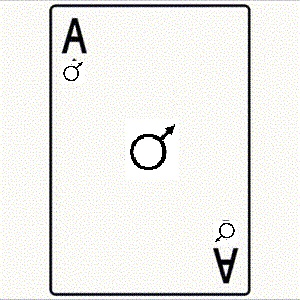
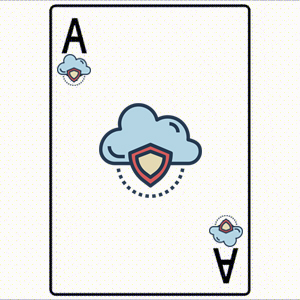
Replaced mars and resized cards

diff --git a/Memory/DockingStationManager.cs b/Memory/DockingStationManager.cs
@@ -15,8 +15,8 @@ namespace Memory
         //public static readonly int dockingOffset = (DockingStation.width * DockingStation.height * 20) / 100;
 
         // Responsive
-        private static readonly float widthPercent = 11.7f;
-        private static readonly float heightPercent = 19.9f;
+        private static readonly float widthPercent = 12.7f;
+        private static readonly float heightPercent = 20.9f;
         private static readonly float offsetPercent = 10f;
         private static readonly float dockingStationOffsetPercent = 1.8f;
 

diff --git a/Memory/SequenceGameController.cs b/Memory/SequenceGameController.cs
@@ -51,7 +51,7 @@ namespace Memory
 
             shapes = new string[] { "trinity_knot", "pi", "spade", "heart",
                                     "X", "tree", "arrow", "diamond", "mars",
-                                    "I", "IRed", "V", "moon", "star", "floppy",
+                                    "I", "IRed", "V", "moon", "git", "star", "floppy",
                                     "triangle","venera", "yin_yang", "delta"};
 
             // "trinity_knot", "pi", "yin_yang", "delta", "tree", "floppy"

diff --git a/Memory/PictureBoxManager.cs b/Memory/PictureBoxManager.cs
@@ -17,8 +17,8 @@ namespace Memory
 
 
         // Responsive pbs.
-        private static readonly float widthPercent = 11.7f;
-        private static readonly float heightPercent = 19.9f;
+        private static readonly float widthPercent = 12.7f;
+        private static readonly float heightPercent = 20.9f;
         private static readonly float offsetPercent = 30; // Relative to PbWidth
 
         public int pictureBoxWidth { get { return (int)Math.Ceiling((Parent.Width / 100.0) * widthPercent); } }

diff --git a/Memory/DockingStation.cs b/Memory/DockingStation.cs
@@ -36,7 +36,7 @@ namespace Memory
         {
             Pen pn = new Pen(StationColor, 2);
             g.DrawRectangle(pn, Station);
-            Pen redPen = new Pen(Color.Red, 2);
+            Pen redPen = new Pen(Color.CornflowerBlue, 2);
             g.DrawRectangle(redPen, Station.Location.X - 2, Station.Location.Y - 2, Station.Width + 4, Station.Height + 4);
 
             using (Font font = new Font(FontFamily.GenericSansSerif, 10))
